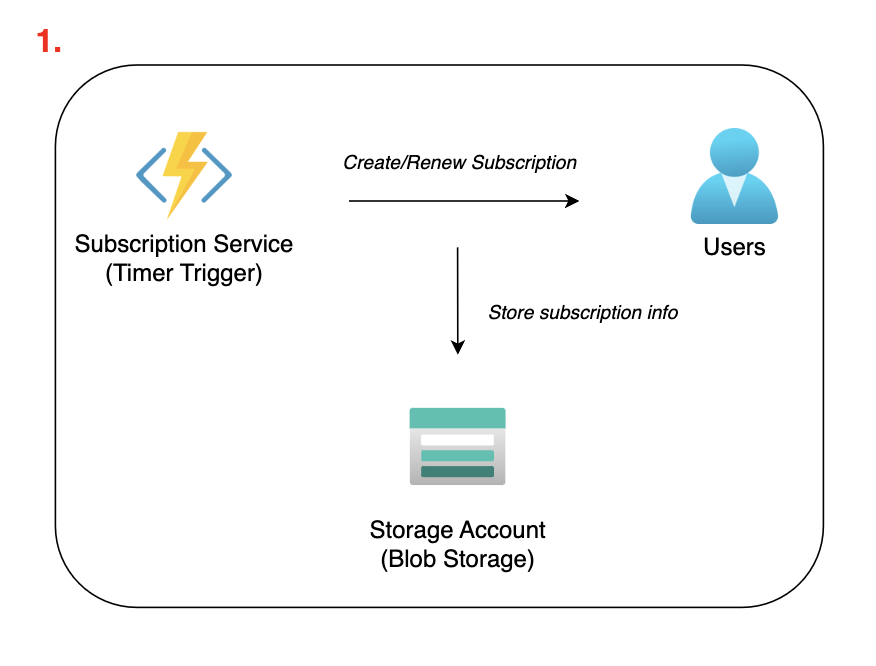
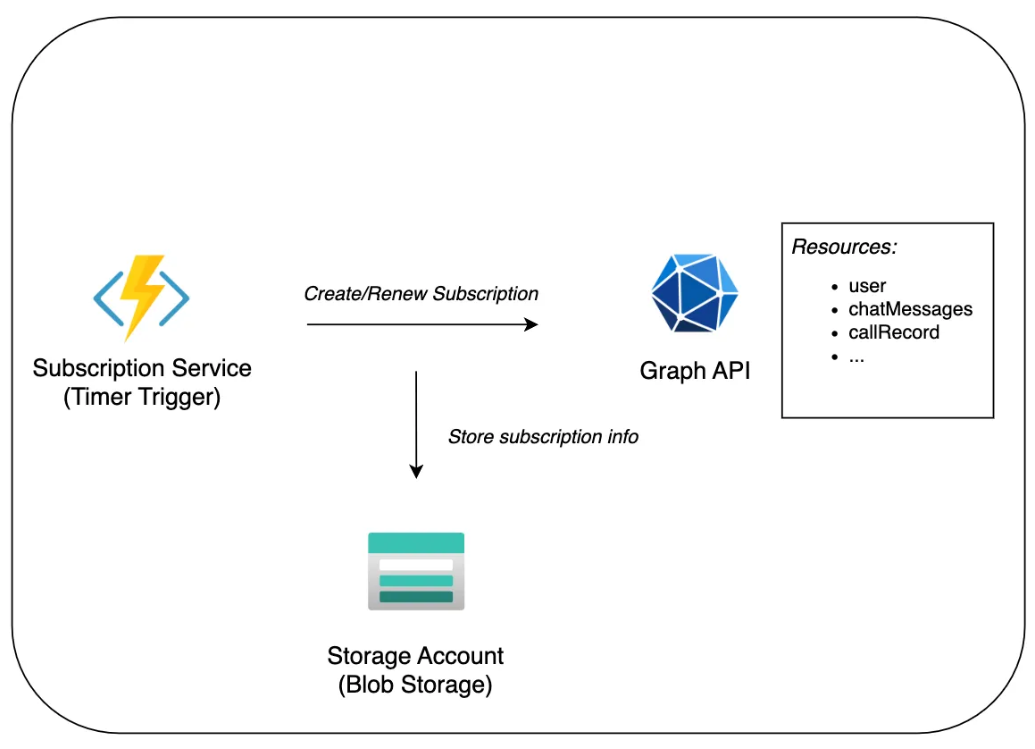
update: README_v0.4

diff --git a/README.md b/README.md
@@ -1,69 +1,74 @@
-# microsoft-teams-log-pipeline
+# microsoft-graph-api-log-pipeline
 
-## 1. Project Background
+This project leverages **Microsoft Graph API change notifications** to store logs from various activities for efficient retrieval and analysis. The project ensures structured log pipeline and storage.
 
-This project aims to track user activities in Microsoft Teams via Microsoft Graph API change notifications and store logs for future retrieval and analysis.
-
-The following Microsoft Teams events will be logged for each tracked user:
-- **User Event**: Events or meetings scheduled in Teams Calendar
-- **Call Record**: Meetings that the user actually joins.
-- **Chat Message**: Messages in the chatroom of meetings the user has joined.
-
-### Required Resources:
 - **Microsoft Graph API**: A unified API endpoint to access data and services from the Microsoft ecosystem. This project focuses its change notification feature.
-  - **change notification**: When tracked event is happend (e.g. a new canledar event is created), Microsoft Graph API will notify given webhook URL.
-- **Azure**:
-  - **App Registration**
-  - **Function App**
-  - **Storage Account**
-  - **Storage Queue**
-  - **Event Hub**
-  - **Azure Data Explorer (ADX) / Azure Fabric** 
+  - **change notification**: When subscribed resource is changed (e.g. a subscribed user is listed to a canledar event), Microsoft Graph API will notify given webhook URL with log as payload.
 
-**Notice that below instructions assume you use Windows as OS, and powershell as terminal.**
+## Features
 
-## 2. Repo Overview
+- **Real-time log ingestion** using Microsoft Graph API change notifications.
+- **Cloud-native application**: All components are in the cloud environment, ensuring scalability, availability and easy maintenance.
+- **Event-driven architecture** for reliable log streaming and processing.
+- **Subscription to specific resources:**
+  - **User Events**: Logs user events such as calendar updates.
+  - **Call Records**: Captures call record details for analysis.
+  - **Chat Messages**: Tracks chat messages, limited to specific **channels**.
 
-### System Architecture
 
-Reference:
-- [Microsoft Graph API change notifications](https://learn.microsoft.com/en-us/graph/api/resources/change-notifications-api-overview?view=graph-rest-1.0)
-- [subscription resource type](https://learn.microsoft.com/en-us/graph/api/resources/subscription?view=graph-rest-1.0)
+## Overview of Subscribed Resource
 
-<br/>
+| **Resource Name**     | **Description**                                                                                   |
+|-----------------------|---------------------------------------------------------------------------------------------------|
+| user (events)         | Tracks user-related events such as calendar changes. (`/user/{userId}/events`)                    |
+| callRecords           | Monitors and stores details of calls for future analysis. (`/communications/callRecords`)         |
+| chatMessages          | Logs messages from specified channels only. (`/chats/{id}/messages`)                              |
+
+
+## Architecture
 
 ![](/Assets/subscription.png)
 
-Creating subscriptions is the prerequisite to activate Graph API change notification. 
-- The purpose of subscription resource type is to tell Graph API who and waht events have to track."
+**Microsoft Graph API Subscription**
+
+Creating subscriptions is the prerequisite to activate Graph API change notification. It tells Graph API waht resources have to be tracked.
 - The subscriptions have expire time, so renew process is needed.
   - Store the subscription list to blob storage for facliating renew process. 
+- **Subscription Service** will create/renew subscriptions. 
+  - You can send a HTTP request to trigger this process, or just wait cronjob trigger it (at 00:00, GMT+8)
 
 <br/>
 
 ![](/Assets/log-pipeline.png)
 
-After subscribed event is triggered, Graph API will send a HTTP request to a webhook URL.
-- The webhook URL can be customized during subscription creating.
-- There are several log redirection services to handle notification .
+**Handling webhook requests**
+
+When subscribed resources changes, Microsoft Graph API will send notification to given webhook URL.
+- **Log Redirection Service** play as request handler, handling incoming notifications and redirecting the data.
+  - The incoming data will be parsed into JSON format.
+  - The destination of redirection can be Event Hub or Stroage Account. 
 
 <br/>
 
-Then, Log redirection services will:
-- Parse incoming HTTP body to log (JSON).
-- Pass logs to Event Hub.
-- Store logs to Storage Account for persistent storage (optional).
+**Streaming process**
+
+- This project utilize Event Hub to implement asynchronous log storage.
+  - There are several topics (by resource type).
+  - **Log Redirection Service** is the producer.
+  - **Azure Fabric** is the consumer.
 
 <br/>
 
-Finally, Azure Fabric consumes logs in EventHub consistently.
+Reference:
+- [Microsoft Graph API change notifications](https://learn.microsoft.com/en-us/graph/api/resources/change-notifications-api-overview?view=graph-rest-1.0)
+- [subscription resource type](https://learn.microsoft.com/en-us/graph/api/resources/subscription?view=graph-rest-1.0)
 
 
-### Repo Structure
+## Repo Structure
 
 Files not included are auto-generated or metadata.
 
-```
+``` sh
 📂 App
 ┣ 📂 Models
 ┃ ┗ 📜 Subscription.cs
@@ -71,25 +76,49 @@ Files not included are auto-generated or metadata.
 ┃ ┣ 📜 AuthenticationConfig.cs
 ┃ ┗ 📜 UtilityFunction.cs
 ┣ 📜App.csproj
-┣ 📜CallRecordService.cs
+┣ 📜CallRecordService.cs             # Log Redirection Service
 ┣ 📜host.json
 ┣ 📜local.settings.json
 ┣ 📜Program.cs
-┣ 📜SubscriptionRenewalService.cs
-┗ 📜UserEventService.cs
+┣ 📜SubscriptionRenewalService.cs    # Subscription Service
+┗ 📜UserEventService.cs              # Log Redirection Service
 📂 Scripts
 ┣ 📜 azure_operation.ps1
 ┣ 📜 functionApp_operation.ps1
 ┗ 📜 req.ps1
 ```
 
-**Follow [3.](#3-azure-resource-preparation-by-powershell-scripts) to create resources by Powershell scrips.**
+## Prerequisites
 
-**Check [4.](#4-azure-resource-preparation-by-azure-portal) if you want to create resources manually in Azure Portal.**
+### Required Azure Resource
 
-## 3. Azure Resource Preparation (by Powershell scripts)
+- **App Registration**
+- **Function App**
+- **Storage Account**
+- **Storage Queue**
+- **Event Hub**
+- **Azure Data Explorer (ADX) / Azure Fabric** 
 
-prerequisite:
+**Follow [here](#3-azure-resource-preparation-by-powershell-scripts) to create resources by Powershell scrips.**
+
+**Check [here](#4-azure-resource-preparation-by-azure-portal) to see reminders if you want to create resources manually in Azure Portal.**
+
+### Required permissions for **Graph API Access** (In App Registration)
+
+| **Permission**                        | **Description**                                                                                   |
+|---------------------------------------|---------------------------------------------------------------------------------------------------|
+| User.Read.All (Application)           | Allows the app to read user profiles without a signed in user.                                    |
+| Calendars.Read (Application)          | Allows the app to read events of all calendars without a signed-in user.                          |
+| CallRecords.Read.All (Application)    | Allows the app to read call records for all calls and online meetings without a signed-in user.   |
+
+
+## Powershell Script Setup Instructions
+
+**Notice that instructions in this section assume you use Windows as OS, and powershell as terminal.**
+
+**Please `cd` to `\Scripts` whenever you excute a script.**
+
+### Prerequisite
 
 - Install Azure CLI from [here](https://learn.microsoft.com/en-us/cli/azure/install-azure-cli-windows?tabs=azure-cli)
 - Install Azure Function App Core Tools (Node.js evnrionment required)
@@ -110,53 +139,130 @@ az account set --subscription {subscription_id}
 📦 teams-log-pipeline
  ┣ 📂 Scripts
  ┃ ┣ 📜 azure_operation.ps1         #  Create all required Azure resources
- ┃ ┗ 📜 functionApp_operation.ps1   #  Deploy Function App (include env variables)
+ ┃ ┣ 📜 functionApp_operation.ps1   #  Deploy Function App (include env variables)
+ ┃ ┗ 📜 req.ps1                     #  
 ```
 
-**Please `cd` to `\Scripts` when you excute a script.**
+### azure_operation.ps1
 
-### 3.1 azure_operation.ps1
-
-This script is used for creating required resource in your Azure for this project. Below list created resources: 
+This script is used for creating required resource in your Azure: 
 
 1. **App Registration** with below Microsoft Graph API permissions (need admin grant to activate)
     1. User.Read.All
-    2. Calendar.Read
+    2. Calendars.Read
     3. CallRecords.Read.All
 2. **Blob Storage**
-3. **Function App**
-4. **Event Hub**
+3. **Event Hub**
+4. **Function App**
+
+</br>
 
 After script execution, you need:
 
-1. **Follow the output messages to set up `App\local.setting.json` file, you can directly override the `App\local.setting.json.example` in repo.**
+1. **Follow the output messages to set up `App\local.setting.json` file, you can directly override the `App\local.setting.json.example` provided in repo.**
 2. **Request your admin to grant the permission requirement in App Registraion.**
     1. **If you're a tenant admin**, run `az ad app permission admin-consent --id {appId}` or use Azure Portal to grant.
 
 
-### 3.2 functionApp_operation.ps1
+### functionApp_operation.ps1
 
 This script is used for Function App deployment and configure its environment variables.
 
 **Be aware that this script will load the value in `local.settings.json` to configure environment variables, if you don't add value in `local.settings.json`, it won't work.**
 
 
-## 4 Azure Resource Preparation (by Azure Portal)
+## Manually Setup Instructions (by Azure Portal)
 
-### 4.1 App Registration (Service Principal)
+### App Registration (Service Principal)
 
-### 4.2 Storage Accounts
+1. Grant the Graph API permissions mentioned in [here](#2-graph-api-access-with-appropriate-permissions-in-app-registration).
+2. Generate a client secret in "Certificates & secrets" tab.
 
-### 4.3 Event Hub
+</br>
 
-### 4.4 Function App
+Requried credentials:
+- client ID
+- tenant ID
+- client Secret (generated in step 2.)
 
-## 5. Initialize Subscription & Demo
+### Storage Accounts
+
+The storage Accounts will auto-create during creating Function App, so **no need** to create it manaully.
+
+</br>
+
+Required credentials:
+- Connection string (in "Access keys" tab)
+
+### Event Hub
+
+Create the Event Hub Namespace first, then add three Event Hub in the namespace.
+
+The names these three entities must be ["userevents-topic", "callrecords-topic", "chatmessages-topic"].
+
+</br>
+
+Required credentials:
+- Connection string (in "Shared access policies" tab)
+
+### Function App
+
+Create a Function App with following configuration:
+- Runtime Stack: .NET
+- Version: 8, isolated worker model
+- Operating System: Windows
+
+</br>
+
+Required credentials:
+- FUNCTION_APP_NAME
+- _master key (in "App keys" tab)
+
+### Environment configuration in Function App
+
+Paste all credentials above mentioned as value with corresponding name in [here](#environment-variables).
+
+## Environment Variables
+
+| **Name**                        | **Description**                                                                          |
+|---------------------------------|------------------------------------------------------------------------------------------|
+| CHAT_API_TOGGLE                 | Turn on the "chatMessage" notification or not. (True/False)                              |
+| EVENT_HUB_FEATURE_TOGGLE        | Decide to use Event Hub or Account Storage as redirection destination.  (True/False)     |
+| TENANT_ID                       | The identifier of working tenant.                                                        |
+| CLIENT_ID                       | The identifier of App Registration                                                       |
+| CLIENT_SECRET                   | The secret of App Registration, used for creating a authenticated Graph API client.      |
+| FUNCTION_APP_NAME               | Config the webhook URL during create/renew subscription process                          |
+| FUNCTION_DEFAULT_KEY            | Config the webhook URL during create/renew subscription process                          |
+| EVENT_HUB_CONNECTION_STRING     | Config Event Hub connection                                                              |
+| BLOB_CONNECTION_STRING          | Config Storage Account connection                                                        |
+
+## Usage
+
+### 1. Create / Renew Subscription 
+
+**By HTTP Request**
 
 Find the URL in Azure Portal first.
 
 ![](/Assets/URL.png)
 
-Copy and paste the URL in `Scripts\req.ps1` and excute it to initialize subscription.
+Copy and paste the URL in `Scripts\req.ps1` and excute script to initialize subscription.
+
+</br>
+
+**By Timer Trigger**
+
+Just wait for cronjob in everyday 00:00 (GMT+8)
 
 
+### 2. Check subscription
+
+In Storage Account, check whether `subscription-container` contains `subscriptionList.json`.
+
+You also can check which user account is subscribed in `subscriptionList.json`.
+
+### 3. Test the pipeline
+
+Create a calendar event for subscribed user.
+
+Normally, the Event Hub (or Storage Account) will receive the log in real-time level.
